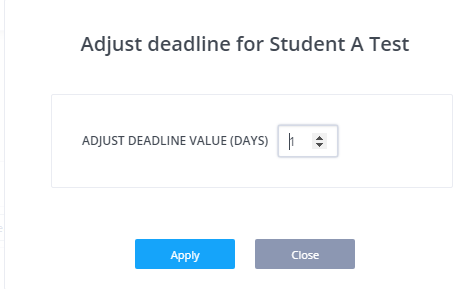
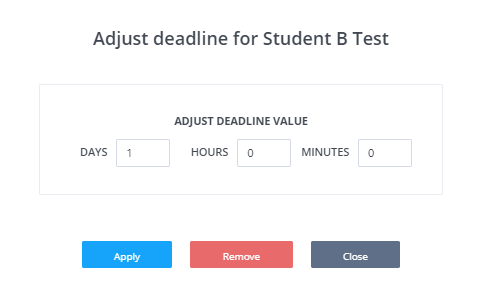
25sepupdate (#51)
* changelog #11894

* changelog #11884

diff --git a/docs/courses/classes.md b/docs/courses/classes.md
@@ -694,7 +694,8 @@ Select the assignment from the course assignments list and click on the 3 blue v
 
 ![penalties](/img/penaltydeadline.png)
 
-You can then adjust the deadline forward by as many days as you require
+You can then adjust the deadline forward by as many days/hours/minutes as you require.
+If a deadline is already set, you can remove it
 
 ![penalties](/img/deadlineadjust.png)
 
@@ -706,6 +707,8 @@ When applied, the adjustment will then show next to the grade field in the teach
 
 Where you can enable various options to help support running an assignment in exam conditions
 ![examproctoring](/img/examproctoring.png)
+
+- **Time Limit** - when enabled assignments will be marked as complete after the indicated amount of time has passed since the student started the assignment or the End Time of the assignment is reached, whichever is first
 
 - **Shuffle Question Order** - when enabled, each student will receive the pages of the assignment in a random order
 

diff --git a/docs/resources/changelog.md b/docs/resources/changelog.md
@@ -13,6 +13,8 @@ We do not report small bug fixes or issues that affect individual users, who we 
 
 **September 2020**
 
+- `[F] [25th]`: Add Time Limit option for [exam proctoring](/courses/classes/#exam-proctoring)
+- `[I] [25th]`: Allow [deadlines](/courses/classes/#adjusting-deadline-for-individual-students) to be adjusted forward by days/hours and minutes
 - `[I] [23rd]`: Update handling of visibility on completed to require students to change status of assignment from completed to be able to continue working
 - `[I] [18th]`: Update handling of visibility on disabled for assignments not started before end date of course
 - `[F] [16th]`: Add ability to more easily [generate items](/courses/assessments/#generate-items) for Standard Code test
